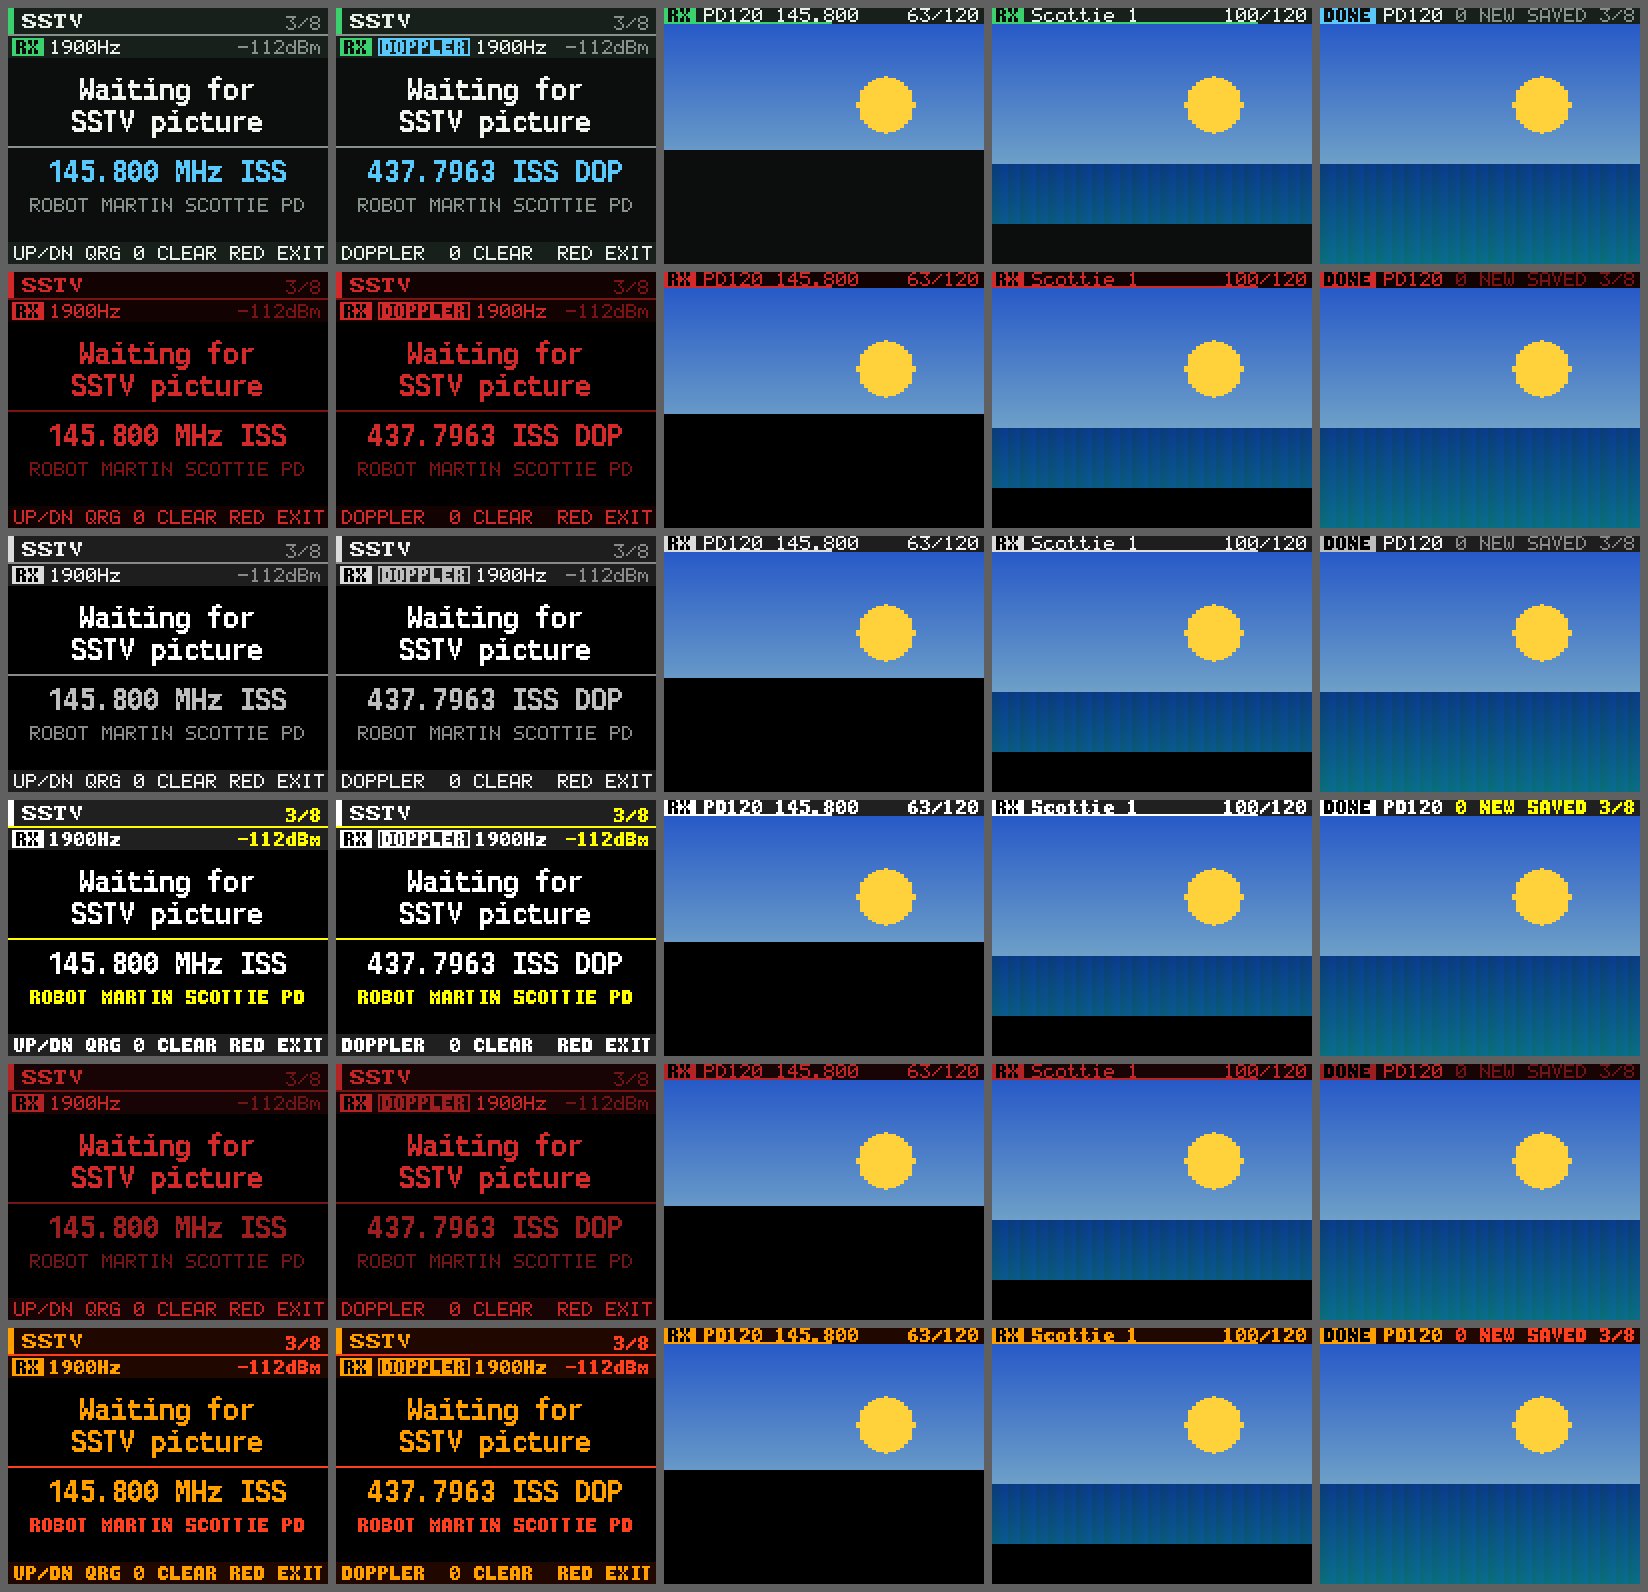
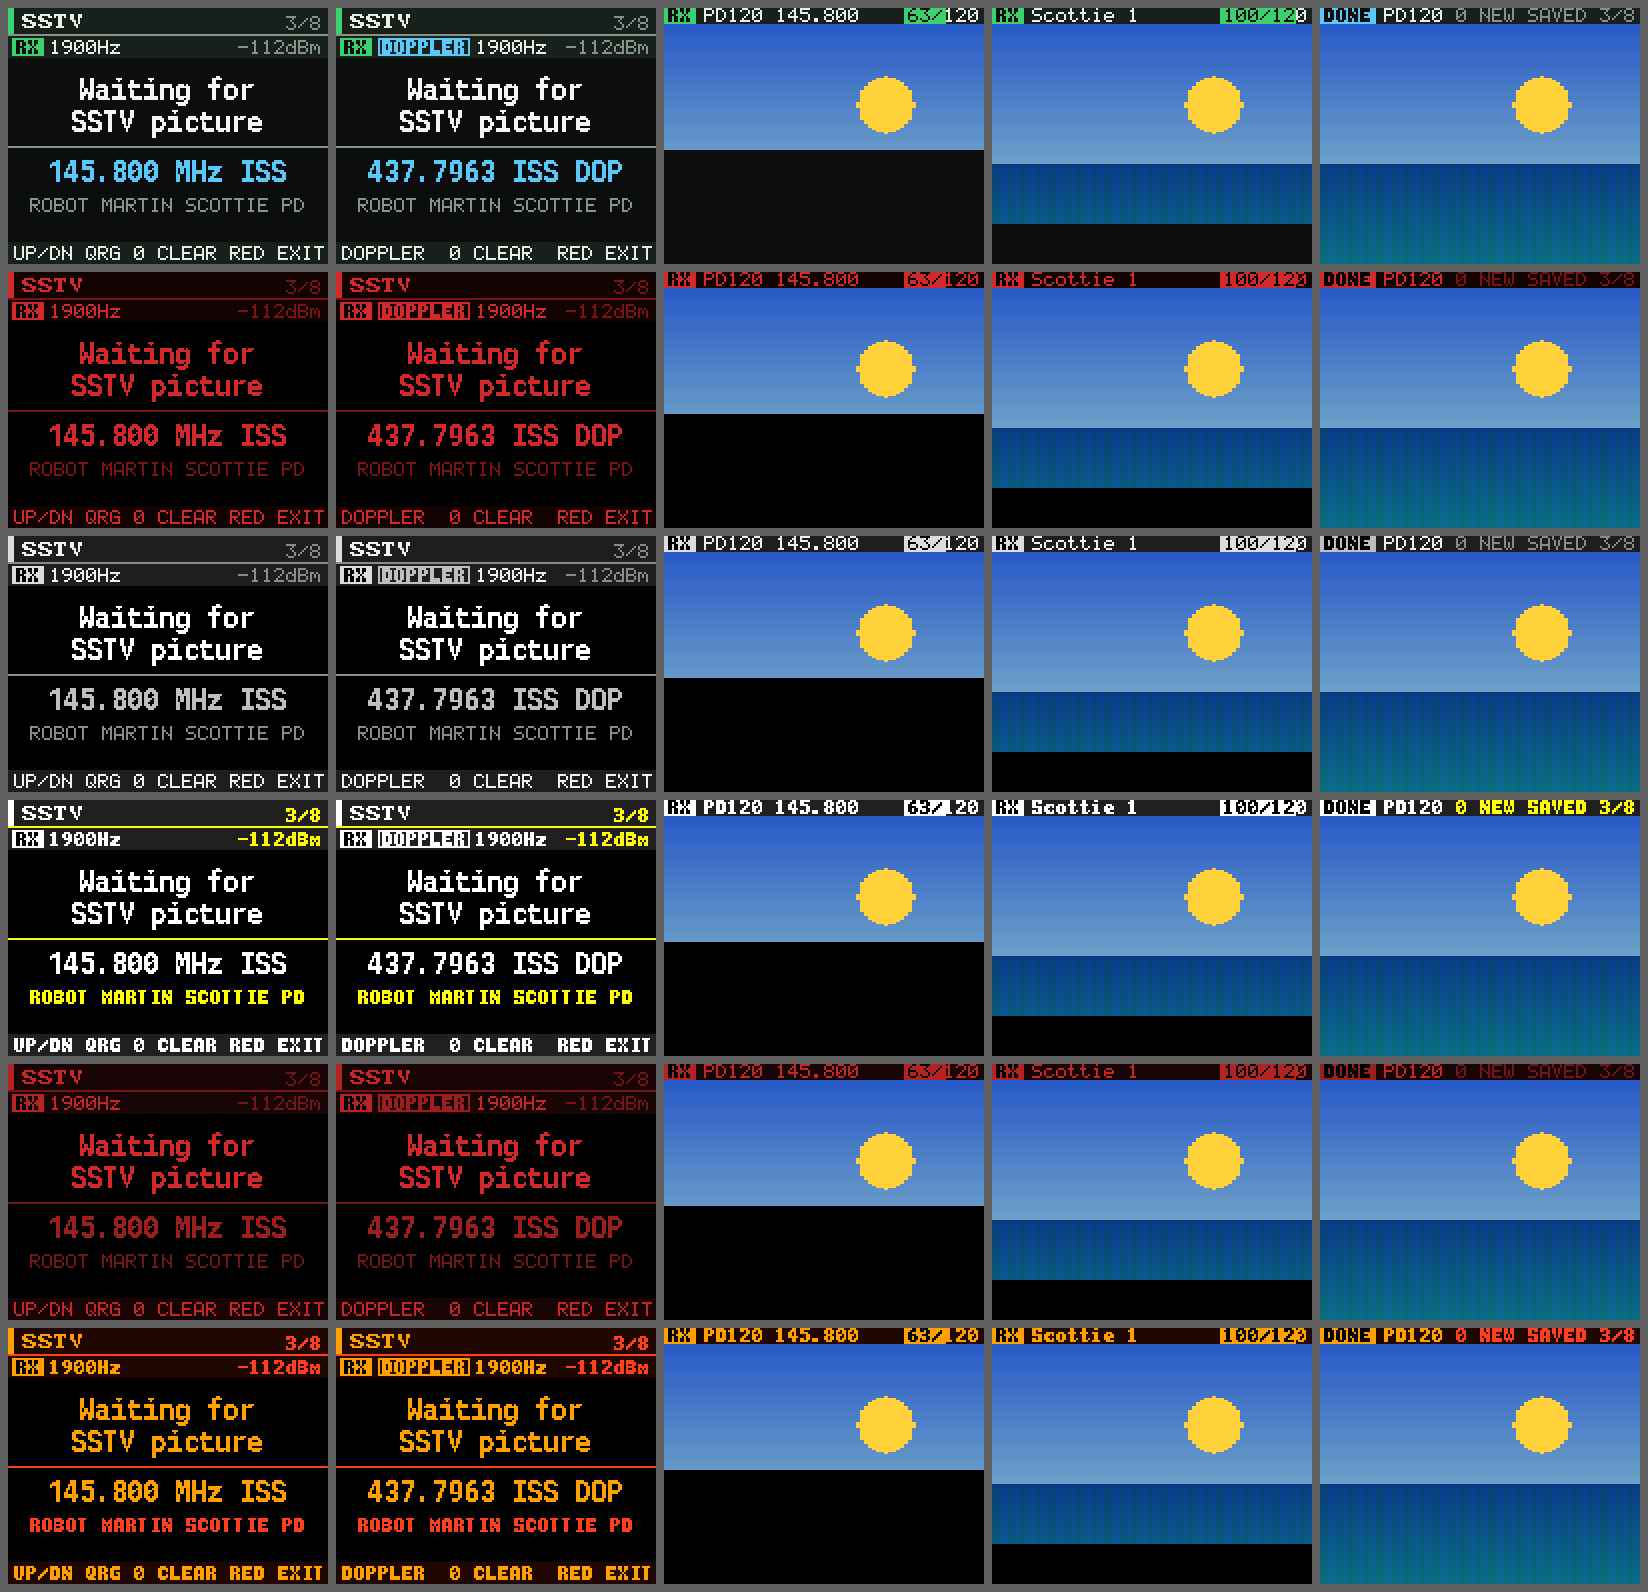
SSTV (EMCOM): progress as a block behind row/120 instead of a line under the bar text

diff --git a/MDUV380_firmware/application/source/user_interface/menuSSTV.c b/MDUV380_firmware/application/source/user_interface/menuSSTV.c
@@ -370,7 +370,7 @@ static void drawIdleEmcom(const sstvRxStatus_t *st, const aprsRxStatus_t *rx)
 }
 
 // EMCOM style, picture shown: the one line bar above it only (state, mode, frequency or DOPPLER,
-// progress / saved), the progress also as a line along the bottom of the bar
+// progress / saved), the progress as a block filling up behind "row/120"
 static void drawPictureBarEmcom(const sstvRxStatus_t *st, const aprsRxStatus_t *rx)
 {
 	char right[SSTV_CHARS + 1];
@@ -424,16 +424,33 @@ static void drawPictureBarEmcom(const sstvRxStatus_t *st, const aprsRxStatus_t *
 	int16_t x = (int16_t)(chip(0, 0, SSTV_STATUS_H, state, colour, THEME_ITEM_BG_HEADER_TEXT) + 4);
 	x = (int16_t)(x + emcomUiText(x, ty, st->modeName, FONT_SIZE_1, THEME_ITEM_FG_HEADER_TEXT, false) + 6);
 
-	int16_t rw = emcomUiText((DISPLAY_SIZE_X - 2), ty, right, FONT_SIZE_1, ((st->state == SSTV_RX_RECEIVING) ? THEME_ITEM_FG_HEADER_TEXT : THEME_ITEM_FG_DECORATION), true);
+	int16_t rw = (int16_t)(strlen(right) * 6);
+	if (st->state == SSTV_RX_RECEIVING)
+	{
+		// progress: a block filling up behind "row/120" (no line near the other text or over the picture),
+		// each character in the background colour once the block is under its middle
+		int16_t bx = (int16_t)(DISPLAY_SIZE_X - rw - 4);
+		int16_t fill = (int16_t)((((uint32_t)st->row + 1U) * (uint32_t)(rw + 4)) / SSTV_RX_ROWS);
+		char ch[2] = { 0, 0 };
+
+		displayThemeApply(THEME_ITEM_FG_RSSI_BAR, THEME_ITEM_BG);
+		displayFillRect(bx, 0, fill, SSTV_STATUS_H, false);
+		for (size_t i = 0; right[i]; i++)
+		{
+			int16_t cx = (int16_t)(bx + 2 + (i * 6));
+
+			ch[0] = right[i];
+			emcomUiText(cx, ty, ch, FONT_SIZE_1, (((cx + 3) < (bx + fill)) ? THEME_ITEM_BG : THEME_ITEM_FG_HEADER_TEXT), false);
+		}
+		rw += 2;
+	}
+	else
+	{
+		emcomUiText((DISPLAY_SIZE_X - 2), ty, right, FONT_SIZE_1, THEME_ITEM_FG_DECORATION, true);
+	}
 	if ((x + (int16_t)(strlen(middle) * 6) + 6) <= (DISPLAY_SIZE_X - 2 - rw))
 	{
 		emcomUiText(x, ty, middle, FONT_SIZE_1, middleColour, false);
-	}
-
-	if (st->state == SSTV_RX_RECEIVING)
-	{
-		displayThemeApply(THEME_ITEM_FG_RSSI_BAR, THEME_ITEM_BG);
-		displayFillRect(0, (SSTV_STATUS_H - 1), (int16_t)(((st->row + 1U) * DISPLAY_SIZE_X) / SSTV_RX_ROWS), 1, false);
 	}
 	displayThemeResetToDefault();
 }

diff --git a/docs/screens/render_tools.py b/docs/screens/render_tools.py
@@ -399,11 +399,19 @@ def sstv_bar(T, state='rx', doppler=False, mode='PD120', row=63):
         right = f'{row}/120'
     else:
         right = 'SAVED 3/8'; mid, mc = '0 NEW', T['deco']
-    rw = txt(s, T, W - 2, 0, right, 1, T['hfg'] if state == 'rx' else T['deco'], True)
+    if state == 'rx':
+        rw = len(right) * 6
+        bx = W - rw - 4
+        fill = row * (rw + 4) // 120
+        s.fill(bx, 0, fill, sh, T['green'])
+        for i, ch in enumerate(right):
+            cx = bx + 2 + i * 6
+            txt(s, T, cx, 0, ch, 1, T['bg'] if cx + 3 < bx + fill else T['hfg'])
+        rw += 2
+    else:
+        rw = txt(s, T, W - 2, 0, right, 1, T['deco'], True)
     if x + len(mid) * 6 + 6 <= W - 2 - rw:
         txt(s, T, x, 0, mid, 1, mc)
-    if state == 'rx':
-        s.fill(0, sh - 1, (row * W) // 120, 1, T['green'])
     return s
 
 

diff --git a/CHANGELOG.md b/CHANGELOG.md
@@ -13,7 +13,7 @@ marked *(untested)* build and pass host tests but still need on-air checking.
   * **Event log**: date and type of the selected entry in the strip, the whole text above the key bar (8x16 in *EMCOM contr*).
   * **Coverage**: `REC` / `NO FIX` / `STOP` / `FULL`, interval and memory in the strip, points in the title, level word `GOOD` / `WEAK` / `GAP`; in mono / contr weak samples are striped and gaps a tick on the graph.
   * **Position**: source, fix, satellites and HDOP in the strip, UTC in the title; in *EMCOM contr* the MGRS easting and northing in 16x32 (to be read out over the radio).
-  * **SSTV**: idle screen in the same layout (pictures saved in the title, `DOPPLER` chip); over a picture only the 8 px bar above it: state, mode, frequency or `DOPPLER`, `row/120` and a progress line, then `SAVED n/8`.
+  * **SSTV**: idle screen in the same layout (pictures saved in the title, `DOPPLER` chip); over a picture only the 8 px bar above it: state, mode, frequency or `DOPPLER`, `row/120` on a block filling up with the progress, then `SAVED n/8`.
   * Clear confirmations (`0`, then `GREEN`) show `CLEAR ...?  GRN YES  ANY NO` in the key bar.
 * **UI refresh, stage 1 (EMCOM styles)** *(untested)*: classic style unchanged.
   * **TX view**: elapsed time in 16x32 and the power level in 8x16; with a TOT a bar of the remaining time, the last 10 s hatched with the countdown in an inverse chip (mono / contr); TX tone / bandwidth or TG / CC / TS and contact; the keys usable while transmitting. The `APRS Tx` banner of a beacon now sits on the panel instead of across the channel name.

diff --git a/PLANS/rt3s_ideas_backlog.md b/PLANS/rt3s_ideas_backlog.md
@@ -173,7 +173,7 @@ unchanged; the clear confirmations (`0`, then `GREEN` on its release) show `CLEA
 6. **SSTV**: idle screen with the saved pictures in the title, strip (state, `DOPPLER`, tone /
    VIS, level), the frequency in 8x16. Over a picture only the 8 px bar above it (the picture is
    never covered): state, mode, frequency or `DOPPLER` (when it fits), `row/120`, then
-   `SAVED n/8`; the progress also as a line along the bottom of the bar.
+   `SAVED n/8`; the progress as a block filling up behind `row/120`.
 
 **Next stages (ideas):** PIN code entry, bearing notification, channel details / VFO special
 modes, contact list and the quick menus in the EMCOM card look.
